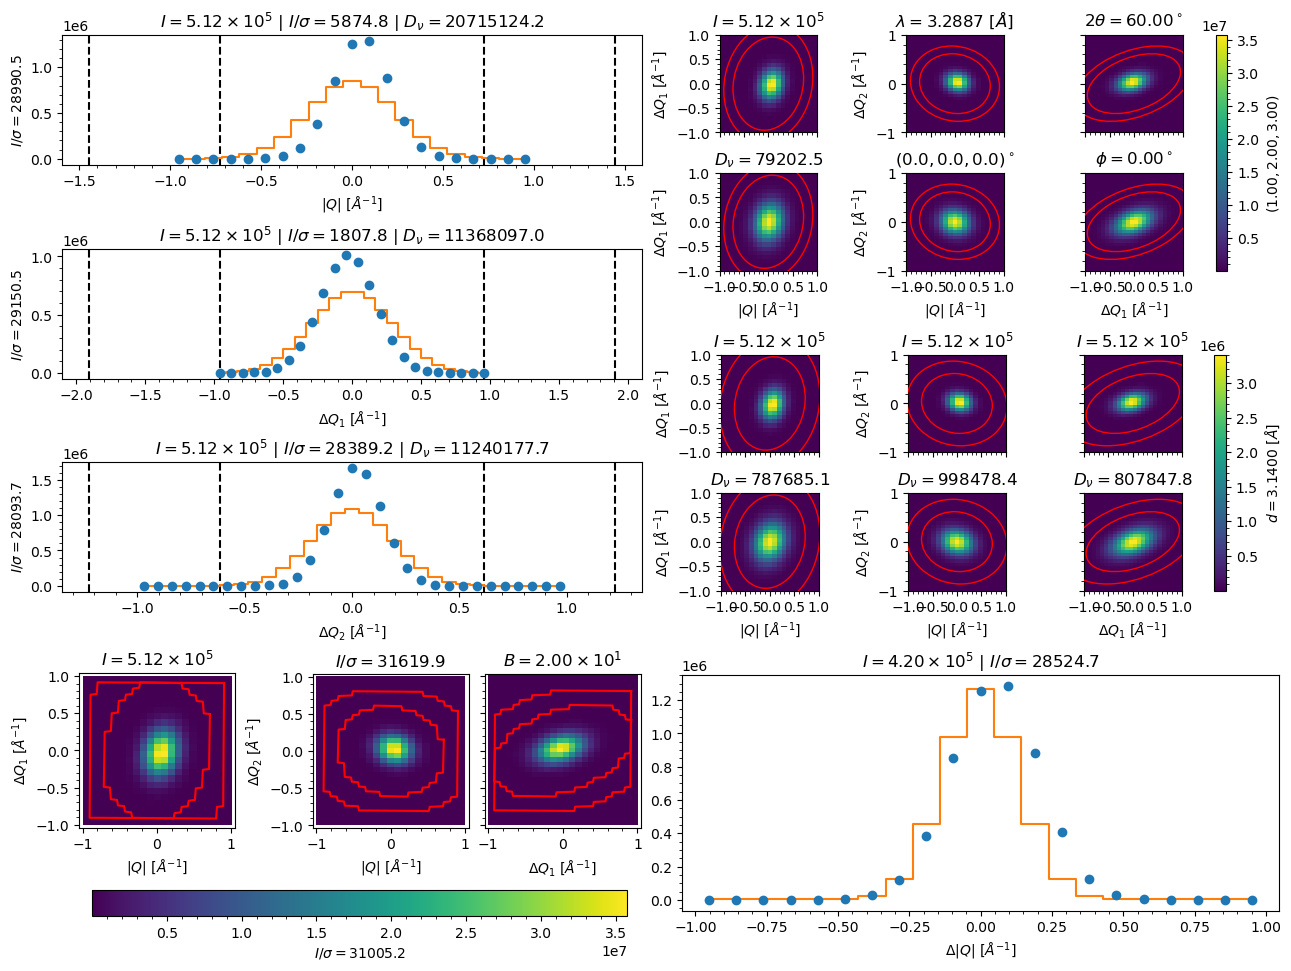
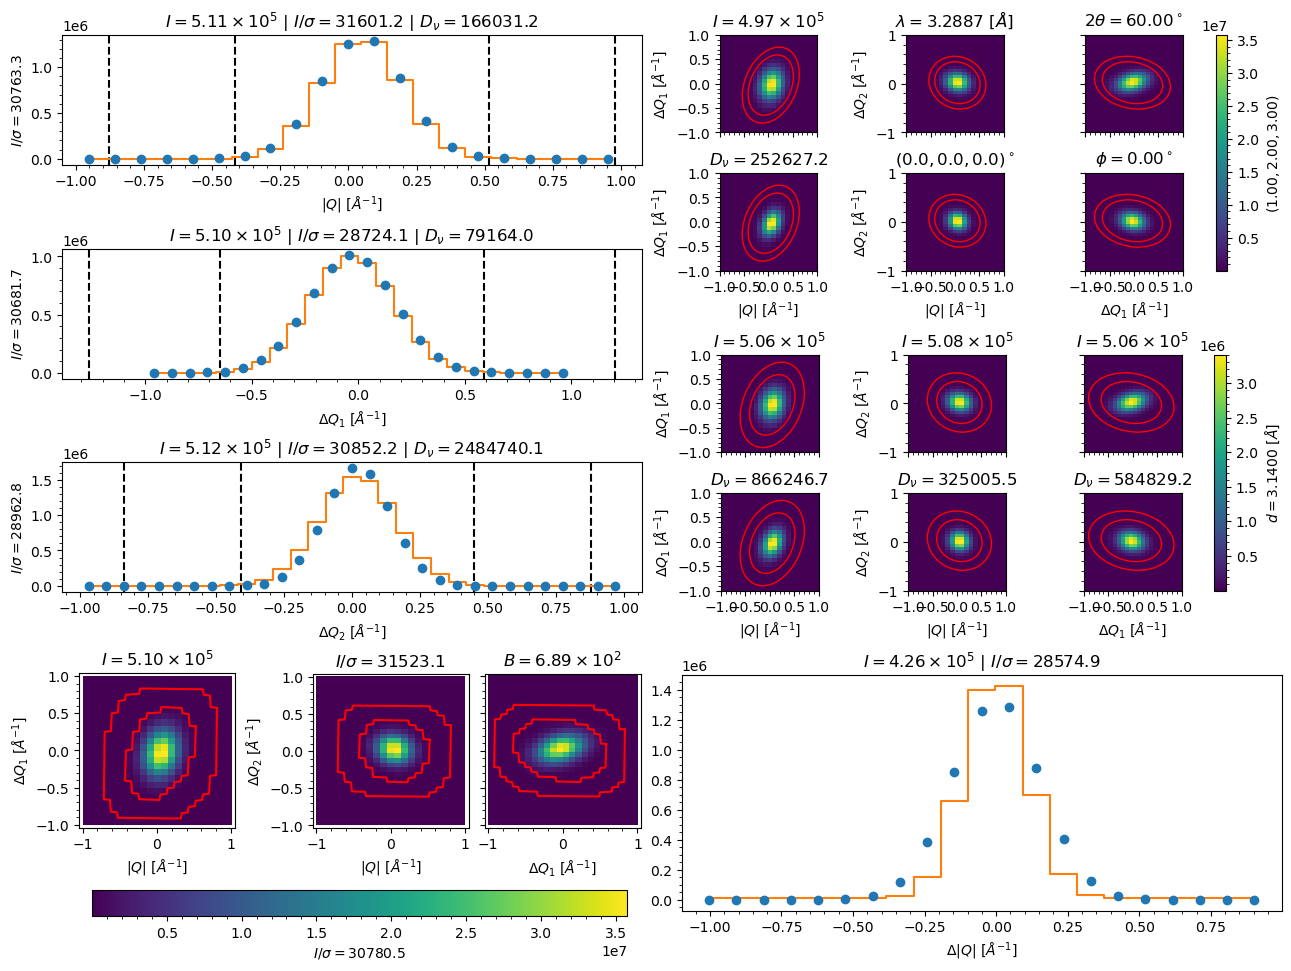
Rework

diff --git a/src/garnet/reduction/ellipsoid.py b/src/garnet/reduction/ellipsoid.py
@@ -1804,9 +1804,21 @@ class PeakEllipsoid:
         self.sweep(args_1d, args_2d, args_3d, protocol, n_iter, report_fit)
 
         for _ in range(n_loop):
-            # SNR sets which of center/radii/orientation vary this round
-            # (see update_adaptive_prior), so a single joint sweep suffices.
             self.update_adaptive_prior(args_1d, args_2d, args_3d)
+
+            protocol = [True] * 3 + [False] * 6
+
+            self.sweep(args_1d, args_2d, args_3d, None, n_iter, report_fit)
+
+            self.update_adaptive_prior(args_1d, args_2d, args_3d)
+
+            protocol = [False] * 3 + [True] * 3 + [False] * 3
+
+            self.sweep(args_1d, args_2d, args_3d, None, n_iter, report_fit)
+
+            self.update_adaptive_prior(args_1d, args_2d, args_3d)
+
+            protocol = [False] * 6 + [True] * 3
 
             self.sweep(args_1d, args_2d, args_3d, None, n_iter, report_fit)
 
@@ -1830,17 +1842,11 @@ class PeakEllipsoid:
             sigma_rot,
         ) = self.prior_widths_from_snr(snr)
 
-        # np.float64 (not plain float) so that a zero width divides down
-        # to numpy's silent inf/nan instead of raising ZeroDivisionError;
-        # residual()/jacobian() already clip inf/nan to a finite value.
-        self.prior_center_sigma = np.float64(sigma_c)
-        self.prior_cov_sigma = np.float64(sigma_log_s)
-        self.prior_distortion_sigma = np.float64(sigma_log_d)
-        self.prior_rot_sigma = np.float64(sigma_rot)
+        self.prior_center_sigma = sigma_c
+        self.prior_cov_sigma = sigma_log_s
+        self.prior_distortion_sigma = sigma_log_d
+        self.prior_rot_sigma = sigma_rot
 
-        # Strength-dependent freedom: a zero-width prior means the data
-        # can't support that group of parameters, so hold it at the
-        # predicted (prior) value instead of leaving it free to wander.
         center_vary = sigma_c > 0.0
         radius_vary = sigma_log_s > 0.0 or sigma_log_d > 0.0
         orient_vary = sigma_rot > 0.0
@@ -1892,18 +1898,27 @@ class PeakEllipsoid:
         elif snr > 2:
             sigma_c = 0.50
             sigma_log_s = 0.15
-            sigma_log_d = 0.00
-            sigma_rot = 0.00
+            sigma_log_d = 0.01
+            sigma_rot = 0.01
 
         else:
-            sigma_c = 0.00
-            sigma_log_s = 0.00
-            sigma_log_d = 0.00
-            sigma_rot = 0.00
+            sigma_c = 0.01
+            sigma_log_s = 0.01
+            sigma_log_d = 0.01
+            sigma_rot = 0.01
 
         return sigma_c, sigma_log_s, sigma_log_d, sigma_rot
 
-    def _isig_3d(self, params, args_3d):
+    def _isig_3d(self, params, args_3d, scales=(0.5, 1.0, 2.0)):
+        """
+        Quick 3D I/sigma estimate, tried at a few radii scales.
+
+        The peak/background split depends on how well the current radii
+        match the true peak, so a single scale can underestimate the SNR
+        (e.g. if the fit radii are currently too tight or too loose). Trying
+        a few scales and taking the best I/sigma gives the SNR-adaptive
+        protocol a fairer chance of recognizing a strong peak.
+        """
         x0, x1, x2, d3d, n3d, *rest = args_3d
         bkg_3d = rest[1] if len(rest) > 1 else None
 
@@ -1917,34 +1932,39 @@ class PeakEllipsoid:
         u1 = params["u1"].value
         u2 = params["u2"].value
 
-        c, inv_S = self.centroid_inverse_covariance(
-            c0, c1, c2, r0, r1, r2, u0, u1, u2
-        )
+        dx_vec = [x0 - c0, x1 - c1, x2 - c2]
 
-        dx = np.prod(self.voxels(x0, x1, x2))
-
-        c0v, c1v, c2v = c
-        dx_vec = [x0 - c0v, x1 - c1v, x2 - c2v]
-        d2 = np.einsum("i...,ij,j...->...", dx_vec, inv_S, dx_vec)
-
-        pk = (d2 <= 1) & (n3d > 0)
-        bkg = (d2 >= 1) & (d2 < np.cbrt(2)) & (n3d > 0)
-
-        c = d3d.copy()
+        d = d3d.copy()
         if bkg_3d is not None:
-            c -= bkg_3d
+            d = d - bkg_3d
 
-        b = np.nansum(c[bkg])
+        best_isig = -np.inf
 
-        p = np.nansum(pk)
-        q = np.nansum(bkg)
+        for scale in scales:
+            inv_S = self.inv_S_matrix(
+                scale * r0, scale * r1, scale * r2, u0, u1, u2
+            )
 
-        vol_ratio = p / q if q > 0 else 0
+            d2 = np.einsum("i...,ij,j...->...", dx_vec, inv_S, dx_vec)
 
-        I = np.nansum(c[pk]) - vol_ratio * b
-        sig = np.sqrt(np.nansum(c[pk]) + vol_ratio**2 * b)
+            pk = (d2 <= 1) & (n3d > 0)
+            bkg = (d2 >= 1) & (d2 < np.cbrt(2)) & (n3d > 0)
 
-        return I / sig if sig > 0 else -np.inf
+            b = np.nansum(d[bkg])
+
+            p = np.nansum(pk)
+            q = np.nansum(bkg)
+
+            vol_ratio = p / q if q > 0 else 0
+
+            I = np.nansum(d[pk]) - vol_ratio * b
+            sig = np.sqrt(np.nansum(d[pk]) + vol_ratio**2 * b)
+
+            isig = I / sig if sig > 0 else -np.inf
+
+            best_isig = max(best_isig, isig)
+
+        return best_isig
 
     def sweep(
         self,
@@ -1955,8 +1975,6 @@ class PeakEllipsoid:
         n_iter=50,
         report_fit=False,
     ):
-        # protocol=None leaves the current vary flags untouched, e.g. when
-        # update_adaptive_prior has already set them from the SNR tier.
         if protocol is not None:
             self.params["c0"].set(vary=protocol[0])
             self.params["c1"].set(vary=protocol[1])
@@ -1977,7 +1995,7 @@ class PeakEllipsoid:
             nan_policy="omit",
         )
 
-        isig_before = self._isig_3d(self.params, args_3d)
+        isig_before = self._isig_3d(self.params, args_3d, scales=[1])
 
         result = out.minimize(
             method="least_squares",
@@ -1988,7 +2006,7 @@ class PeakEllipsoid:
         if report_fit:
             print(fit_report(result))
 
-        isig_after = self._isig_3d(result.params, args_3d)
+        isig_after = self._isig_3d(result.params, args_3d, scales=[1])
 
         if isig_after >= isig_before:
             self.params = result.params

diff --git a/src/garnet/utilities/reflections.py b/src/garnet/utilities/reflections.py
@@ -636,13 +636,10 @@ class Peaks:
 
     def remove_volume_outliers(self, lo=0.1, hi=10.0):
         """
-        Flag peaks whose fitted-model intensity disagrees with the
-        matched-filter intensity actually assigned to the peak.
-
-        Compares I_3d (the 3D Gaussian profile-fit's predicted intensity)
-        to peak.getIntensity() (the matched-filter intensity set during
-        integration); peaks outside the [lo, hi] ratio are considered
-        outliers and flagged for removal.
+        Flag peaks whose 3D Gaussian profile-fit intensity (I_3d) disagrees
+        with the peak's assigned intensity (peak.getIntensity()). Peaks
+        whose I_3d / getIntensity() ratio falls outside [lo, hi] are
+        considered outliers and flagged for removal.
         """
 
         run_info = mtd[self.peaks].run()